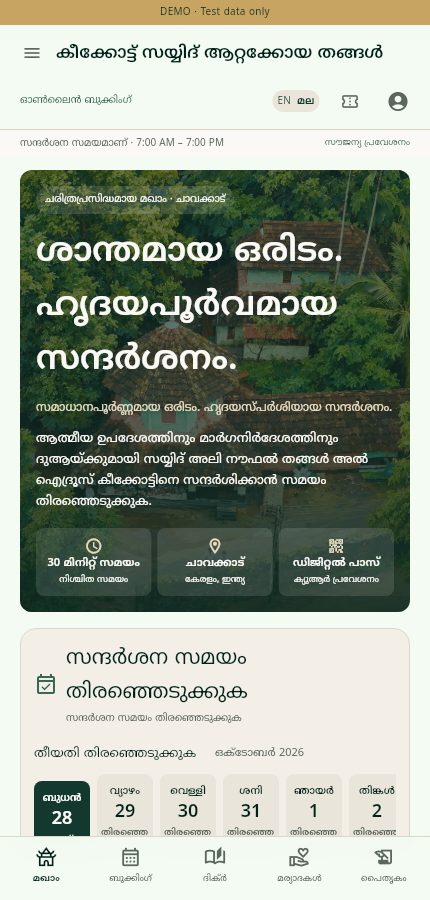
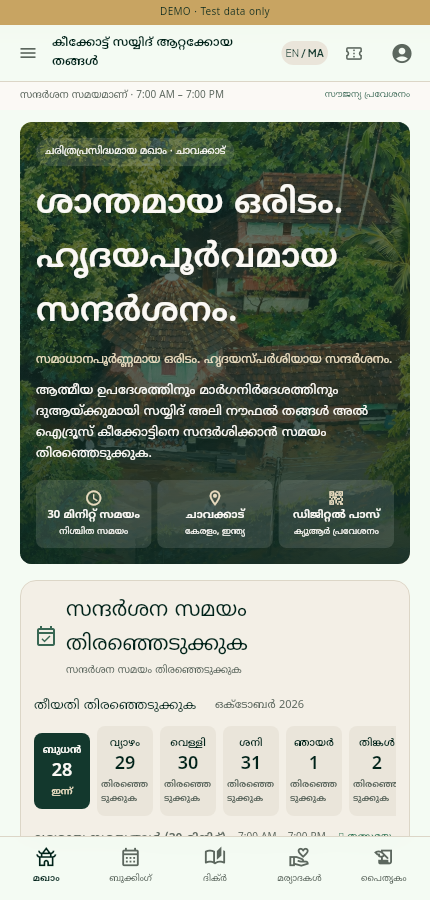
Compact mobile app bar into one control row with EN / MA switch

diff --git a/lib/core/widgets/sanctuary_mobile_shell.dart b/lib/core/widgets/sanctuary_mobile_shell.dart
@@ -14,7 +14,6 @@ class SanctuaryMobileHeader extends ConsumerWidget {
   final bool keyboardOpen;
   @override
   Widget build(BuildContext context, WidgetRef ref) {
-    final large = MediaQuery.textScalerOf(context).scale(1) > 1.3;
     final ml = AppLanguage.of(context) == 'ml';
     if (keyboardOpen) {
       return SafeArea(
@@ -38,16 +37,7 @@ class SanctuaryMobileHeader extends ConsumerWidget {
                   ),
                 ),
               ),
-              TextButton(
-                onPressed: () => AppLanguage.select(context, ml ? 'en' : 'ml'),
-                child: Text(
-                  ml ? 'EN' : 'മല',
-                  style: const TextStyle(
-                    fontSize: 12,
-                    fontFamily: 'Noto Sans Malayalam',
-                  ),
-                ),
-              ),
+              const _LanguageToggle(),
             ],
           ),
         ),
@@ -57,7 +47,7 @@ class SanctuaryMobileHeader extends ConsumerWidget {
       ml ? AppBrand.name : 'KEEKKOTT SAYYID\nATTAKOYA THANGAL',
       style: const TextStyle(
         fontFamily: 'Playfair Display',
-        fontSize: 17,
+        fontSize: 12,
         height: 1.35,
         color: AppColors.primary,
         fontWeight: FontWeight.w600,
@@ -66,53 +56,17 @@ class SanctuaryMobileHeader extends ConsumerWidget {
     final controls = Row(
       mainAxisSize: MainAxisSize.min,
       children: [
-        Semantics(
-          toggled: ml,
-          label: ml ? 'Switch to English' : 'മലയാളത്തിലേക്ക് മാറ്റുക',
-          child: TextButton(
-            key: const ValueKey('language-toggle'),
-            onPressed: () => AppLanguage.select(context, ml ? 'en' : 'ml'),
-            style: TextButton.styleFrom(
-              minimumSize: const Size(60, 44),
-              padding: const EdgeInsets.symmetric(horizontal: 4),
-              shape: const StadiumBorder(),
-            ),
-            child: Container(
-              padding: const EdgeInsets.symmetric(horizontal: 5, vertical: 4),
-              decoration: BoxDecoration(
-                color: AppColors.disabled,
-                borderRadius: BorderRadius.circular(30),
-              ),
-              child: Row(
-                mainAxisSize: MainAxisSize.min,
-                children: [
-                  Text(
-                    'EN',
-                    style: TextStyle(
-                      fontSize: 10,
-                      fontWeight: ml ? FontWeight.w400 : FontWeight.w700,
-                    ),
-                  ),
-                  const SizedBox(width: 6),
-                  Text(
-                    'മല',
-                    style: TextStyle(
-                      fontFamily: 'Noto Sans Malayalam',
-                      fontSize: 10,
-                      fontWeight: ml ? FontWeight.w700 : FontWeight.w400,
-                    ),
-                  ),
-                ],
-              ),
-            ),
-          ),
-        ),
+        const _LanguageToggle(),
         IconButton(
+          constraints: const BoxConstraints.tightFor(width: 44, height: 44),
+          padding: EdgeInsets.zero,
           tooltip: tr(context, 'My Pass'),
           onPressed: () => context.go('/my-bookings'),
           icon: const Icon(Icons.confirmation_number_outlined, size: 19),
         ),
         IconButton(
+          constraints: const BoxConstraints.tightFor(width: 44, height: 44),
+          padding: EdgeInsets.zero,
           tooltip: tr(context, 'Profile'),
           onPressed: () {
             final user = ref.read(authProvider).asData?.value;
@@ -138,46 +92,83 @@ class SanctuaryMobileHeader extends ConsumerWidget {
               children: [
                 Padding(
                   padding: const EdgeInsets.symmetric(
-                    horizontal: 8,
+                    horizontal: 4,
                     vertical: 4,
                   ),
-                  child: Column(
+                  child: Row(
                     children: [
-                      Row(
-                        children: [
-                          IconButton(
-                            key: const ValueKey('header-menu'),
-                            tooltip: ml ? 'മെനു' : 'Menu',
-                            onPressed: () => Scaffold.of(context).openDrawer(),
-                            icon: const Icon(Icons.menu, size: 20),
-                          ),
-                          Expanded(child: identity),
-                        ],
+                      IconButton(
+                        key: const ValueKey('header-menu'),
+                        constraints: const BoxConstraints.tightFor(
+                          width: 44,
+                          height: 44,
+                        ),
+                        padding: EdgeInsets.zero,
+                        tooltip: ml ? 'മെനു' : 'Menu',
+                        onPressed: () => Scaffold.of(context).openDrawer(),
+                        icon: const Icon(Icons.menu, size: 20),
                       ),
-                      Row(
-                        children: [
-                          if (!large) ...[
-                            const SizedBox(width: 12),
-                            const Expanded(
-                              child: AppText(
-                                AppBrand.service,
-                                style: TextStyle(
-                                  fontSize: 10,
-                                  color: AppColors.secondary,
-                                  letterSpacing: .5,
-                                ),
-                              ),
-                            ),
-                          ] else
-                            const Spacer(),
-                          controls,
-                        ],
-                      ),
+                      Expanded(child: identity),
+                      controls,
                     ],
                   ),
                 ),
                 const _GateStatus(),
               ],
+            ),
+          ),
+        ),
+      ),
+    );
+  }
+}
+
+class _LanguageToggle extends StatelessWidget {
+  const _LanguageToggle();
+
+  @override
+  Widget build(BuildContext context) {
+    final ml = AppLanguage.of(context) == 'ml';
+    return Semantics(
+      toggled: ml,
+      label: ml ? 'Switch to English' : 'മലയാളത്തിലേക്ക് മാറ്റുക',
+      child: TextButton(
+        key: const ValueKey('language-toggle'),
+        onPressed: () => AppLanguage.select(context, ml ? 'en' : 'ml'),
+        style: TextButton.styleFrom(
+          minimumSize: const Size(44, 44),
+          padding: const EdgeInsets.symmetric(horizontal: 2),
+          tapTargetSize: MaterialTapTargetSize.shrinkWrap,
+          shape: const StadiumBorder(),
+        ),
+        child: Container(
+          padding: const EdgeInsets.symmetric(horizontal: 4, vertical: 5),
+          decoration: BoxDecoration(
+            color: AppColors.disabled,
+            borderRadius: BorderRadius.circular(30),
+          ),
+          child: Text.rich(
+            TextSpan(
+              children: [
+                TextSpan(
+                  text: 'EN',
+                  style: TextStyle(
+                    fontWeight: ml ? FontWeight.w400 : FontWeight.w700,
+                  ),
+                ),
+                const TextSpan(text: ' / '),
+                TextSpan(
+                  text: 'MA',
+                  style: TextStyle(
+                    fontWeight: ml ? FontWeight.w700 : FontWeight.w400,
+                  ),
+                ),
+              ],
+            ),
+            style: const TextStyle(
+              fontFamily: 'Plus Jakarta Sans',
+              fontSize: 10,
+              height: 1.4,
             ),
           ),
         ),
